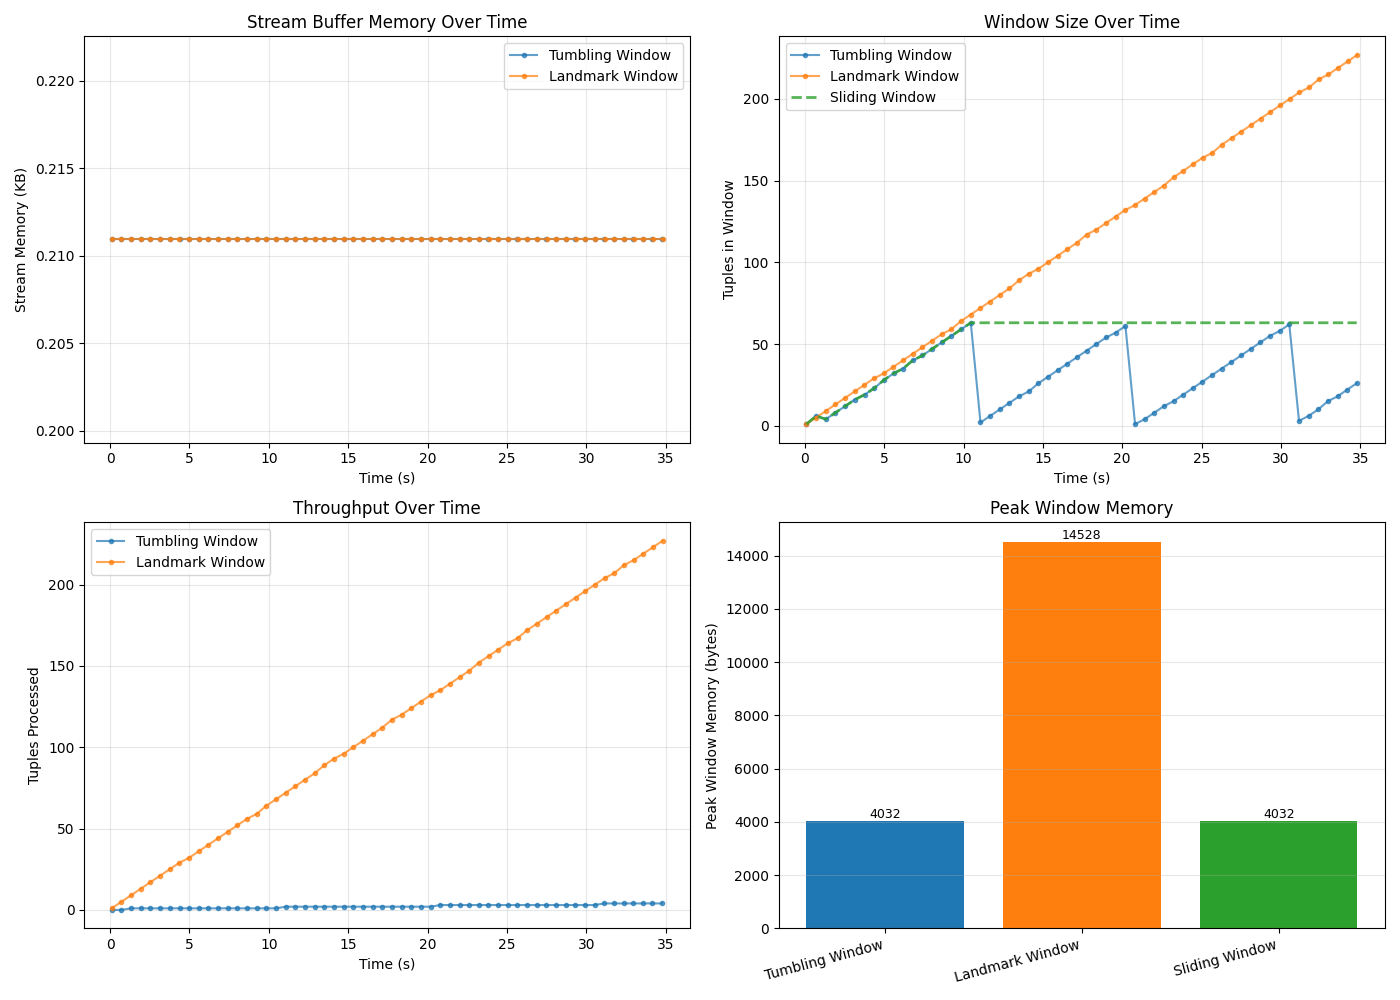
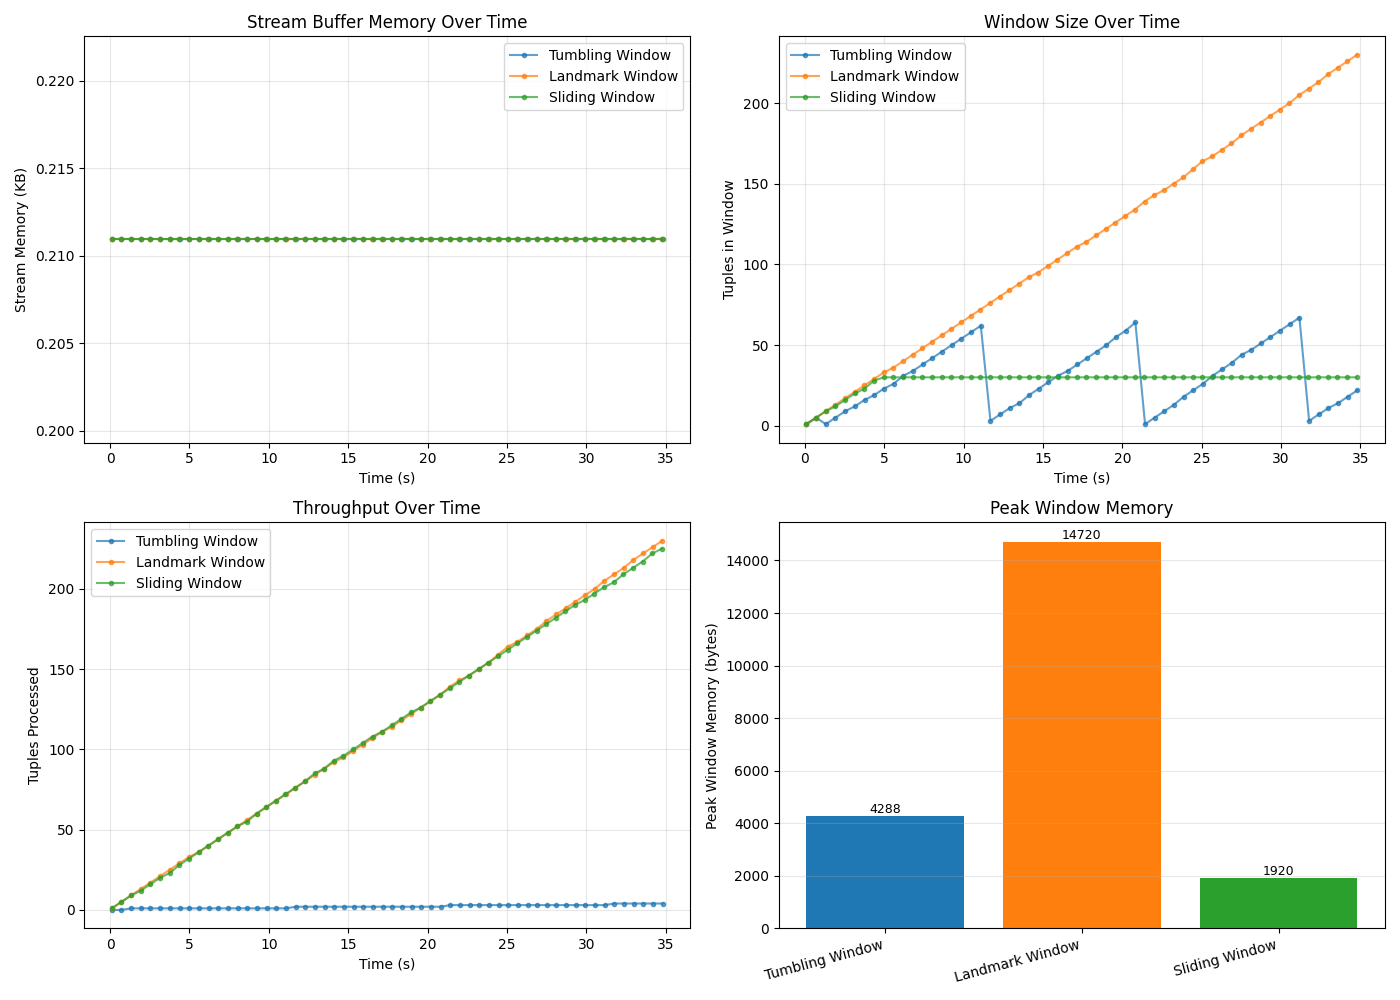
Integrated nasdaq

diff --git a/benchmark_windows.py b/benchmark_windows.py
@@ -16,6 +16,7 @@ from air_pollution_source import air_pollution_source
 from weather_source import weather_source
 from humidity_source import humidity_source
 from sensor_energy_source import sensor_energy_source
+from nasdaq_source import nasdaq_source
 
 
 class StatsCollector:
@@ -186,6 +187,28 @@ def _landmark_window_benchmark(in_stream, collector, results_count, stop_event):
             yield result
 
 
+def _sliding_window_benchmark(in_stream, window_size, collector, results_count, stop_event):
+    """Sliding window consumer with window state tracking for benchmarking."""
+    from collections import deque
+    window = deque(maxlen=window_size)
+
+    while not stop_event.is_set():
+        ts, value = in_stream.get()
+        window.append((ts, value))
+
+        values = [v for _, v in window]
+        count = len(values)
+        avg_value = sum(values) / count
+        result = (window[0][0], window[-1][0], count, avg_value, min(values), max(values))
+
+        # Update window state — grows until window_size, then stays constant
+        collector.window_state['tuples_in_window'] = count
+        collector.window_state['window_memory_bytes'] = count * StatsCollector.TUPLE_OVERHEAD
+        collector.increment_tuples()
+        results_count['count'] += 1
+        yield result
+
+
 def benchmark_operator(operator_name, consumer_func, source_func, source_name, 
                        stream_size=20, window_size=10, duration=60):
     """
@@ -221,6 +244,9 @@ def benchmark_operator(operator_name, consumer_func, source_func, source_name,
         try:
             if operator_name == 'Tumbling Window':
                 for _ in _tumbling_window_benchmark(data_stream, window_size, collector, results_count, stop_event):
+                    pass
+            elif operator_name == 'Sliding Window':
+                for _ in _sliding_window_benchmark(data_stream, window_size, collector, results_count, stop_event):
                     pass
             else:
                 for _ in _landmark_window_benchmark(data_stream, collector, results_count, stop_event):
@@ -285,29 +311,6 @@ def plot_comparison(collectors):
         ax.plot(collector.stats['timestamps'], collector.stats['window_tuples'],
                label=collector.operator_name, color=colors.get(collector.operator_name, 'tab:gray'),
                marker='o', markersize=3, alpha=0.7)
-    # Add synthetic sliding window line: grows like tumbling, then stays at peak
-    tumbling = next((c for c in collectors if c.operator_name == 'Tumbling Window'), None)
-    if tumbling and tumbling.stats['window_tuples']:
-        peak_tw = max(tumbling.stats['window_tuples'])
-        sw_ts = tumbling.stats['timestamps']
-        sw_values = []
-        for val in tumbling.stats['window_tuples']:
-            if val >= peak_tw and not sw_values or (sw_values and sw_values[-1] >= peak_tw):
-                sw_values.append(peak_tw)
-            else:
-                sw_values.append(val)
-        # Simpler: just clamp to peak once reached
-        sw_values = []
-        reached_peak = False
-        for val in tumbling.stats['window_tuples']:
-            if reached_peak:
-                sw_values.append(peak_tw)
-            else:
-                sw_values.append(val)
-                if val >= peak_tw:
-                    reached_peak = True
-        ax.plot(sw_ts, sw_values, label='Sliding Window', color='tab:green',
-               linestyle='--', linewidth=2, alpha=0.8)
     ax.set_xlabel('Time (s)')
     ax.set_ylabel('Tuples in Window')
     ax.set_title('Window Size Over Time')
@@ -331,12 +334,6 @@ def plot_comparison(collectors):
     summaries = [c.get_summary() for c in collectors]
     operators = [s['operator'] for s in summaries]
     peak_window_mems = [s['peak_window_memory_bytes'] for s in summaries]
-    
-    # Add synthetic sliding window peak (same as tumbling peak)
-    if tumbling:
-        sw_peak = max(tumbling.stats['window_tuples']) * StatsCollector.TUPLE_OVERHEAD
-        operators.append('Sliding Window')
-        peak_window_mems.append(sw_peak)
     
     x = range(len(operators))
     bars = ax.bar(x, peak_window_mems, color=[colors.get(op, 'tab:gray') for op in operators])
@@ -394,20 +391,6 @@ def save_results_csv(collectors, filename='benchmark_results.csv'):
                 f"{summary['duration_seconds']:.2f}",
                 f"{throughput:.2f}",
             ])
-        
-        # Add synthetic sliding window row (same peak as tumbling)
-        tumbling = next((c for c in collectors if c.operator_name == 'Tumbling Window'), None)
-        if tumbling and tumbling.stats['window_tuples']:
-            sw_peak = max(tumbling.stats['window_tuples'])
-            sw_mem = sw_peak * StatsCollector.TUPLE_OVERHEAD
-            writer.writerow([
-                'Sliding Window',
-                '-', '-', '-',
-                '-', '-',
-                f"{sw_mem:.0f}",
-                f"{sw_mem:.0f}",
-                '-', '-', '-', '-', '-',
-            ])
     
     logging.info(f'Results saved to {filename}')
 
@@ -415,7 +398,7 @@ def save_results_csv(collectors, filename='benchmark_results.csv'):
 def main():
     parser = argparse.ArgumentParser(description='Benchmark window operators on same source')
     parser.add_argument('--source', type=str, default='air_pollution',
-                        choices=['air_pollution', 'weather', 'humidity', 'sensor_energy'],
+                        choices=['air_pollution', 'weather', 'humidity', 'sensor_energy', 'nasdaq'],
                         help='Data source to benchmark (default: air_pollution)')
     parser.add_argument('--window-size', type=int, default=10,
                         help='Tumbling window size in seconds (default: 10)')
@@ -433,6 +416,7 @@ def main():
         'weather': weather_source,
         'humidity': humidity_source,
         'sensor_energy': sensor_energy_source,
+        'nasdaq': nasdaq_source,
     }
     
     source_func = sources[args.source]
@@ -476,6 +460,24 @@ def main():
     elapsed_lw = time.time() - start
     logging.info(f'Landmark Window done: {count_lw} outputs in {elapsed_lw:.2f}s')
     
+    time.sleep(2)  # Cool-down period
+    
+    # Benchmark Sliding Window
+    logging.info('Running Sliding Window...')
+    start = time.time()
+    collector_sw, count_sw = benchmark_operator(
+        'Sliding Window',
+        None,
+        source_func,
+        source_name,
+        stream_size=args.stream_size,
+        window_size=args.window_size * 3,
+        duration=args.duration
+    )
+    collectors.append(collector_sw)
+    elapsed_sw = time.time() - start
+    logging.info(f'Sliding Window done: {count_sw} outputs in {elapsed_sw:.2f}s')
+    
     # Save and plot results
     save_results_csv(collectors)
     plot_comparison(collectors)
@@ -500,15 +502,6 @@ def main():
         logging.info(f"  Duration:         {summary['duration_seconds']:.2f} s")
         throughput = summary['total_tuples'] / summary['duration_seconds'] if summary['duration_seconds'] > 0 else 0
         logging.info(f"  Throughput:       {throughput:.2f} tuples/s")
-    
-    # Add sliding window synthetic summary
-    tumbling = next((c for c in collectors if c.operator_name == 'Tumbling Window'), None)
-    if tumbling and tumbling.stats['window_tuples']:
-        sw_peak = max(tumbling.stats['window_tuples'])
-        sw_mem = sw_peak * StatsCollector.TUPLE_OVERHEAD
-        logging.info(f"\nSliding Window (synthetic):")
-        logging.info(f"  Peak Window Mem:  {sw_mem:.0f} B")
-        logging.info(f"  Notes:            Grows like tumbling, stays at peak (O(window_size))")
     
     logging.info('Benchmark complete. Exiting.')
     sys.exit(0)

diff --git a/sliding_window.py b/sliding_window.py
@@ -1,0 +1,88 @@
+#!/usr/bin/env python3
+"""Sliding window operator for stream processing."""
+
+import threading
+import logging
+import argparse
+from datetime import datetime
+from collections import deque
+
+from stream import stream
+from nasdaq_source import nasdaq_source
+from air_pollution_source import air_pollution_source
+from weather_source import weather_source
+from humidity_source import humidity_source
+from sensor_energy_source import sensor_energy_source
+
+
+def sliding_window_consumer(in_stream, window_size=10):
+    """Consume a stream and maintain a sliding window of the last *window_size* tuples.
+
+    Yields a result tuple on every incoming tuple:
+        (oldest_ts, newest_ts, count, avg_value, min_value, max_value)
+
+    Parameters:
+        in_stream:      input stream
+        window_size:    number of tuples in the sliding window (default 10)
+    """
+    window = deque(maxlen=window_size)
+
+    while True:
+        ts, value = in_stream.get()
+        window.append((ts, value))
+
+        values = [v for _, v in window]
+        count = len(values)
+        avg_value = sum(values) / count
+        min_value = min(values)
+        max_value = max(values)
+        oldest_ts = window[0][0]
+        newest_ts = window[-1][0]
+
+        result = (oldest_ts, newest_ts, count, avg_value, min_value, max_value)
+
+        logging.info(
+            "Sliding Window [%s - %s] | Count: %d | Avg: %.2f | Min: %.2f | Max: %.2f",
+            datetime.fromtimestamp(oldest_ts).strftime('%H:%M:%S'),
+            datetime.fromtimestamp(newest_ts).strftime('%H:%M:%S'),
+            count,
+            avg_value,
+            min_value,
+            max_value,
+        )
+        yield result
+
+
+if __name__ == "__main__":
+    parser = argparse.ArgumentParser(description='Sliding window operator for stream processing')
+    parser.add_argument('--source', type=str, default='nasdaq',
+                        choices=['nasdaq', 'air_pollution', 'weather', 'humidity', 'sensor_energy'],
+                        help='Data source to consume from (default: nasdaq)')
+    parser.add_argument('--window-size', type=int, default=10,
+                        help='Number of tuples in the sliding window (default: 10)')
+    parser.add_argument('--stream-size', type=int, default=20,
+                        help='Internal stream buffer size (default: 20)')
+    parser.add_argument('--csv', type=str, default='NASDAQCOM.csv',
+                        help='Path to NASDAQ CSV file (only for nasdaq source)')
+    parser.add_argument('--day-secs', type=float, default=0.2,
+                        help='Real seconds per simulated day (only for nasdaq source)')
+    args = parser.parse_args()
+
+    logging.basicConfig(level=logging.INFO, format='[%(levelname)s] (%(threadName)-10s) %(message)s')
+
+    sources = {
+        'nasdaq': ('NASDAQ', lambda oS: nasdaq_source(oS, csvfile=args.csv, day_seconds=args.day_secs)),
+        'air_pollution': ('Air Pollution', air_pollution_source),
+        'weather': ('Weather', weather_source),
+        'humidity': ('Humidity', humidity_source),
+        'sensor_energy': ('Sensor Energy', sensor_energy_source),
+    }
+
+    stream_name, source_func = sources[args.source]
+    data_stream = stream(stream_name, args.stream_size)
+
+    source_thread = threading.Thread(name=args.source, target=source_func, args=(data_stream,), daemon=True)
+    source_thread.start()
+
+    for result in sliding_window_consumer(data_stream, window_size=args.window_size):
+        pass  # results are logged inside the consumer

diff --git a/nasdaq_source.py b/nasdaq_source.py
@@ -1,0 +1,45 @@
+#!/usr/bin/env python3
+"""NASDAQ Composite data source for stream processing benchmarks."""
+
+import csv
+import time
+import logging
+from datetime import datetime
+
+from stream import stream
+
+
+def nasdaq_source(oStream: stream, csvfile: str = 'NASDAQCOM.csv', day_seconds: float = 0.2):
+    """Read NASDAQ CSV data and push (timestamp, price) tuples into the stream.
+
+    Skips rows with empty/null values.
+
+    Parameters:
+        oStream:        output stream
+        csvfile:        path to the NASDAQ CSV file
+        day_seconds:    real seconds per simulated trading day (default 0.2)
+    """
+    with open(csvfile, newline='', encoding='utf-8') as fh:
+        reader = csv.DictReader(fh)
+        for row in reader:
+            date_str = row.get('observation_date') or row.get('observation date')
+            if not date_str:
+                continue
+            raw = (row.get('NASDAQCOM') or '').strip()
+            if raw == '' or raw.upper() == 'NULL':
+                logging.debug('skipping null/empty value for %s', date_str)
+                continue
+            try:
+                price = float(raw)
+            except ValueError:
+                logging.debug('skipping invalid numeric value %r for %s', raw, date_str)
+                continue
+            try:
+                dt = datetime.strptime(date_str, '%Y-%m-%d')
+            except Exception:
+                logging.debug('skipping invalid date %r', date_str)
+                continue
+            ts = datetime.timestamp(dt)
+            oStream.put_force((ts, price))
+            logging.info('produced %s -> %.2f', date_str, price)
+            time.sleep(day_seconds)

diff --git a/nasdaq_stream.py b/nasdaq_stream.py
@@ -65,7 +65,7 @@ _prices = []   # float
 def collector(iStream: stream):
     """Drain the stream into the shared lists."""
     while True:
-        ts, val = iStream.get()
+        ts, val = iStream.get() # type: ignore
         dt = datetime.fromtimestamp(ts)
         with _lock:
             _dates.append(dt)